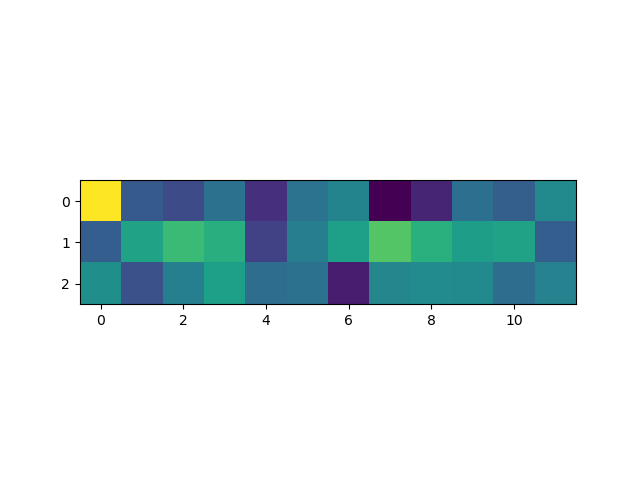
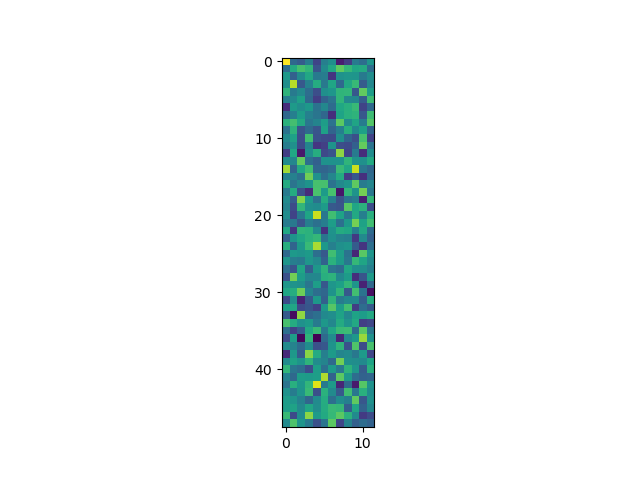
viz weights

Changed region(s): [[0.0938, 0.0938, 0.9062, 0.9375]]

diff --git a/visualize_gcnn.py b/visualize_gcnn.py
@@ -30,10 +30,13 @@ weights = model.g_conv_1[0].layers[0].weight[:,0].detach().numpy()
 print(weights.shape)
 #[4, 16, 2, 3, 3]
 
-channel = 0
 view = 0
+channels = []
+for channel in range(16):
+    single_channel_weights = np.hstack([weights[g,channel,view] for g in range(weights.shape[0])])
+    channels.append(single_channel_weights)
 
-single_channel_weights = np.hstack([weights[g,channel,view] for g in range(weights.shape[0])])
-print(single_channel_weights)
-plt.imshow(single_channel_weights)
+channels = np.vstack(channels)
+
+plt.imshow(channels)
 plt.savefig("weights.png")
